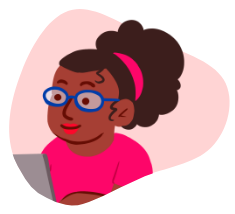
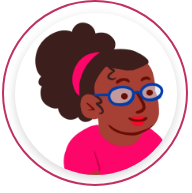
Novos assets

diff --git a/utils/dist/strings.dev.js b/utils/dist/strings.dev.js
@@ -1,0 +1,74 @@
+"use strict";
+
+Object.defineProperty(exports, "__esModule", {
+  value: true
+});
+exports["default"] = exports.INTRO_DIALOGS = void 0;
+var INTRO_DIALOGS = [{
+  avatar: require('assets/images/avatar-dialogo-carla.png'),
+  text: 'Olá meu nome é <strong>Carla</strong>. Sou professora de Matemática.'
+}, {
+  right: true,
+  avatar: require('assets/images/avatar-dialogo-marcos.png'),
+  text: 'Oi meu nome é <strong>Marcos</strong>. Sou professor de Português.'
+}, {
+  avatar: require('assets/images/avatar-dialogo-carla.png'),
+  text: 'É com satisfação que recebemos você no curso "Uso de recursos educativos digitais!"'
+}, {
+  right: true,
+  avatar: require('assets/images/avatar-dialogo-marcos.png'),
+  text: 'Neste curso vamos entender como a <strong>cultura digital</strong> pode mudar algumas práticas de sala de aula. Vamos <strong>conhecer</strong> alguns  Recursos Educacionais Digitais ou, simplesmente, <strong>RED</strong>.'
+}, {
+  avatar: require('assets/images/avatar-dialogo-carla.png'),
+  text: 'Sim! Vamos ver como esses recursos podem ser instrumentos de ensino e aprendizagem na Língua Portuguesa e na Matemática nos anos iniciais do Ensino Fundamental.'
+}, {
+  right: true,
+  avatar: require('assets/images/avatar-dialogo-marcos.png'),
+  text: 'Ao final do curso vamos conhecer alguns <strong>planejamentos</strong> e também <strong>planejar</strong> aulas com suporte de Recursos Educacionais Digitais.'
+}, {
+  avatar: require('assets/images/avatar-dialogo-carla.png'),
+  text: 'Os objetivos do curso são esses:'
+}, {
+  type: 'text',
+  text: "\n        <ol>\n          <li>Desenvolver conhecimento sobre o ensino e aprendizagem na cultura digital</li>\n          <li>Conhecer Recursos Educacionais Digitais (RED) como instrumentos de ensino e aprendizagem.</li>\n          <li>Planejar aulas com suporte dos RED.</li>\n        </ol>\n      "
+}, {
+  right: true,
+  avatar: require('assets/images/avatar-dialogo-marcos.png'),
+  text: ' Vamos entender um pouco da estrutura do curso. Você deseja ver a <strong>ementa</strong> agora?'
+}, {
+  type: 'bool',
+  yes: [{
+    right: true,
+    avatar: require('assets/images/avatar-dialogo-marcos.png'),
+    text: 'Tudo bem! Esta é a ementa do curso:'
+  }, {
+    type: 'text',
+    text: 'Fugiat consequat duis dolor et et elit in veniam consequat do nostrud minim.'
+  }, {
+    avatar: require('assets/images/avatar-dialogo-carla.png'),
+    text: 'Agora veja a estrutura abaixo para entender a estrutura do curso:'
+  }, {
+    type: 'text',
+    text: "<img src=\"".concat(require('assets/images/estrutura-do-curso-com-texto.png'), "\"/>")
+  }, {
+    type: 'end'
+  }],
+  no: [{
+    right: true,
+    avatar: require('assets/images/avatar-dialogo-marcos.png'),
+    text: 'Tudo bem! Lembre-se que você pode acessar a ementa sempre que desejar durante o curso.'
+  }, {
+    avatar: require('assets/images/avatar-dialogo-carla.png'),
+    text: 'Agora veja a imagem abaixo para entender a estrutura do curso:'
+  }, {
+    type: 'text',
+    text: "\n            <img src=\"".concat(require('assets/images/estrutura-do-curso-com-texto.png'), "\" />\n          ")
+  }, {
+    type: 'end'
+  }]
+}];
+exports.INTRO_DIALOGS = INTRO_DIALOGS;
+var _default = {
+  INTRO_DIALOGS: INTRO_DIALOGS
+};
+exports["default"] = _default;

diff --git a/components/dist/index.dev.js b/components/dist/index.dev.js
@@ -1,0 +1,57 @@
+"use strict";
+
+Object.defineProperty(exports, "__esModule", {
+  value: true
+});
+exports["default"] = void 0;
+
+var _vueRadialProgress = _interopRequireDefault(require("vue-radial-progress"));
+
+var _Card = _interopRequireDefault(require("./unidades/Card.vue"));
+
+var _Container = _interopRequireDefault(require("./aulas/Container.vue"));
+
+var _Navigation = _interopRequireDefault(require("./aulas/Navigation.vue"));
+
+var _Footer = _interopRequireDefault(require("./Footer.vue"));
+
+var _Navbar = _interopRequireDefault(require("./Navbar.vue"));
+
+var _Trophies = _interopRequireDefault(require("./Trophies.vue"));
+
+var _Quotes = _interopRequireDefault(require("./Quotes.vue"));
+
+var _Question = _interopRequireDefault(require("./Question.vue"));
+
+var _Challenge = _interopRequireDefault(require("./Challenge.vue"));
+
+var _ChatDialog = _interopRequireDefault(require("./ChatDialog"));
+
+var _ModalChatDialog = _interopRequireDefault(require("./ModalChatDialog"));
+
+function _interopRequireDefault(obj) { return obj && obj.__esModule ? obj : { "default": obj }; }
+
+// Plugins
+// Unidades
+// Aulas
+// Artigos
+// Chat
+var Components = {
+  install: function install(Vue) {
+    Vue.component('mide-footer', _Footer["default"]);
+    Vue.component('mide-navbar', _Navbar["default"]);
+    Vue.component('mide-trophies', _Trophies["default"]);
+    Vue.component('quotes', _Quotes["default"]);
+    Vue.component('question', _Question["default"]);
+    Vue.component('challenge', _Challenge["default"]);
+    Vue.component('mide-unidade-card', _Card["default"]);
+    Vue.component('mide-aulas-container', _Container["default"]);
+    Vue.component('mide-aulas-navigation', _Navigation["default"]);
+    Vue.component('mide-chat-dialog', _ChatDialog["default"]);
+    Vue.component('mide-modal-chat-dialog', _ModalChatDialog["default"]); // plugins
+
+    Vue.component('mide-radial-progress', _vueRadialProgress["default"]);
+  }
+};
+var _default = Components;
+exports["default"] = _default;

diff --git a/pages/home.vue b/pages/home.vue
@@ -4,7 +4,7 @@
       <img src="~assets/images/imagem-inicio.png" class="mide-cabecalho" />
       <div class="mide-cabecalho-text">
         <h3 class="has-text-left">Aproveite os estudos!</h3>
-        <h1>Uso de recursos educativos digitais</h1>
+        <h1>Uso de recursos Educacionais Digitais</h1>
         <p>
           Com este curso, você vai poder desenvolver seus conhecimentos acerca
           do uso de Recursos Educacionais Digitais como instrumentos de ensino
@@ -85,7 +85,7 @@ export default {
       margin-top: 40px;
     }
     h1 {
-      font: 35px avenir-next-lt-pro-bold;
+      font: 32px avenir-next-lt-pro-bold;
       margin-bottom: 24px;
     }
     p {

diff --git a/components/unidades/Card.vue b/components/unidades/Card.vue
@@ -43,9 +43,8 @@ export default {
   border-radius: 15px;
   opacity: 1;
   .image {
-    background: transparent
-      url('https://images.unsplash.com/photo-1534670007418-fbb7f6cf32c3?ixlib=rb-1.2.1&ixid=eyJhcHBfaWQiOjEyMDd9&auto=format&fit=crop&w=334&q=80')
-      0% 0% no-repeat;
+    background: transparent url('~assets/images/card-sobre-o-curso.png') 0% 0%
+      no-repeat;
     background-size: cover;
     border-radius: 15px 15px 0px 0px;
   }

diff --git a/pages/_unidade/_aula/artigos/about.vue b/pages/_unidade/_aula/artigos/about.vue
@@ -51,7 +51,7 @@
 
     <div class="columns">
       <div class="column is-one-third">
-        <img src="~assets/images/marcos-celular-close.png" />
+        <img src="~assets/images/marcos-explicacao.png" />
       </div>
       <div class="column is-1">
         <img
